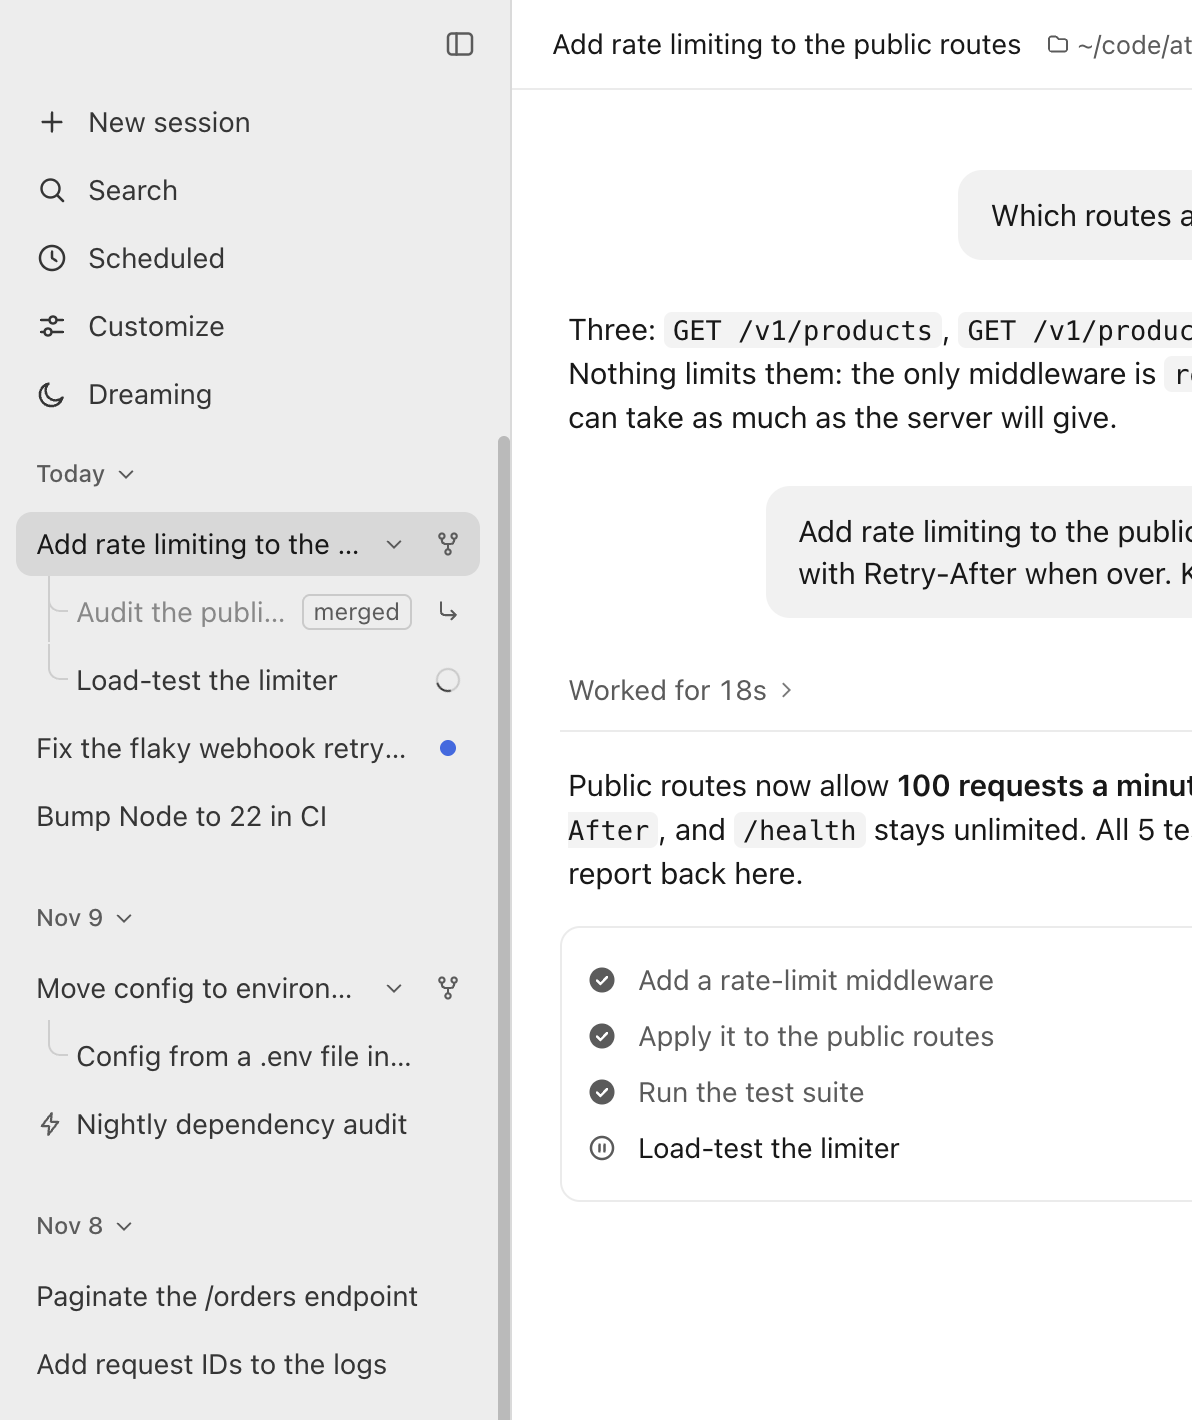
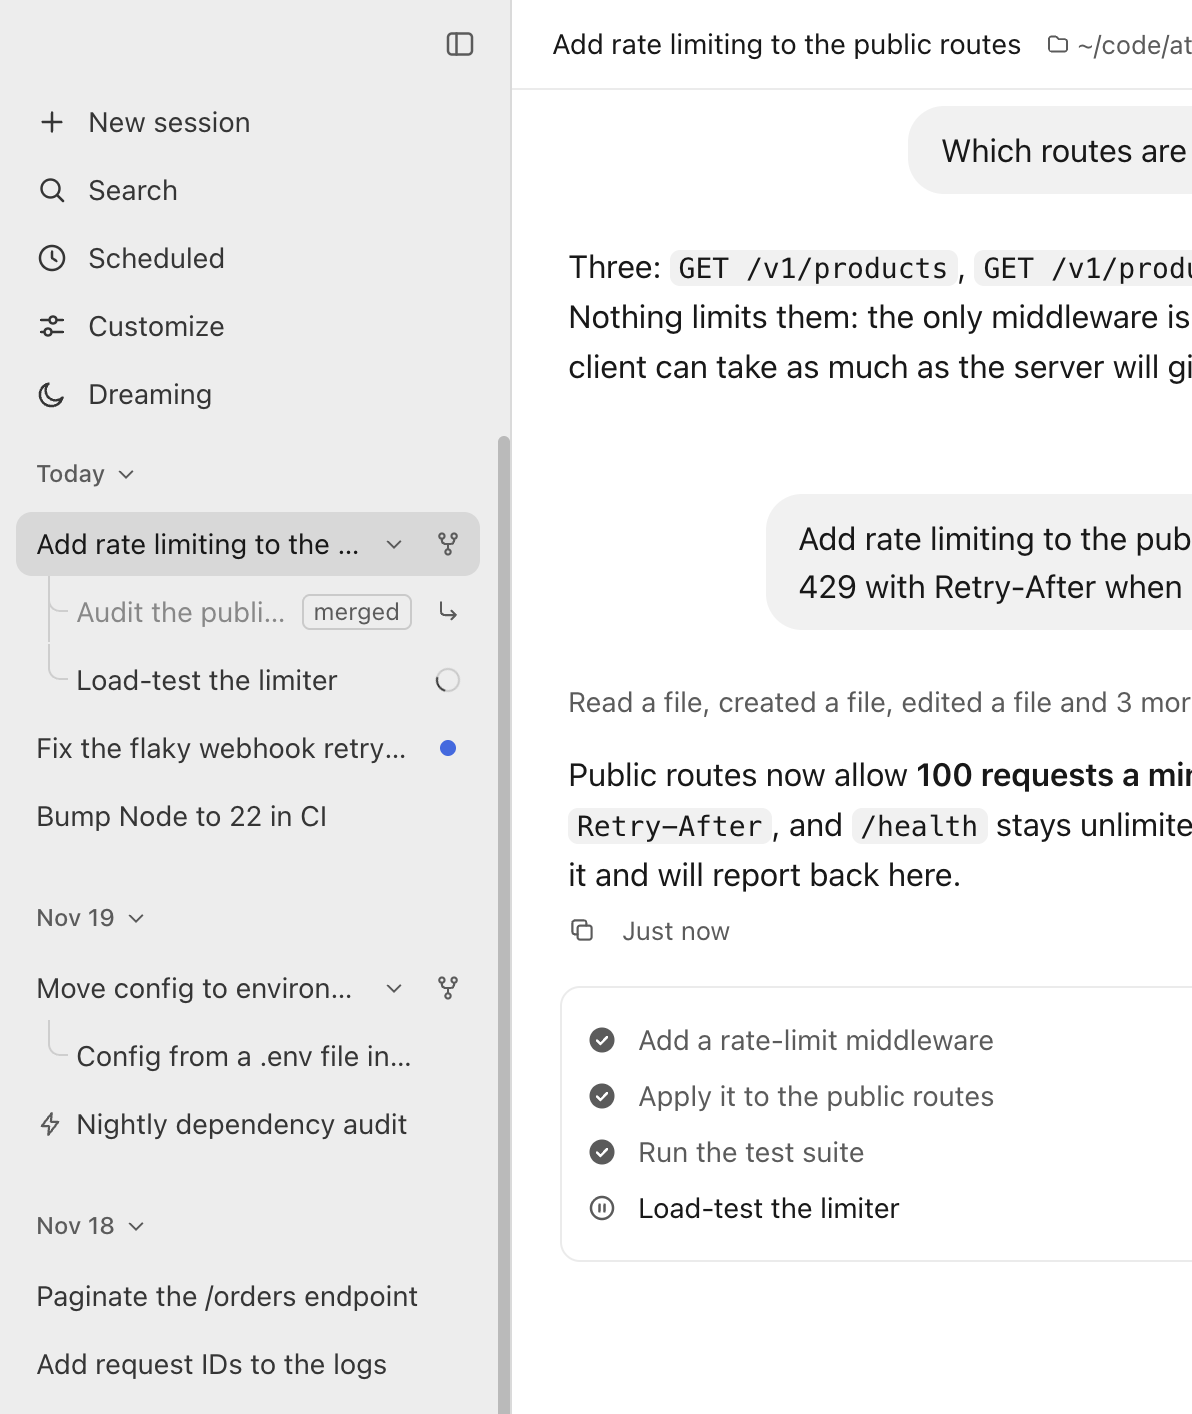
README and website screenshots redone in the 0.21.0 window; readme-shots.js no longer clicks the Mods tab that moved (the Mods page lists the mods) and takes the images turn in a taller window so its card of tool rows fits; docs/index.html picture sizes follow (test/site.js)

diff --git a/docs/index.html b/docs/index.html
@@ -111,10 +111,10 @@
           </ul>
         </div>
         <div class="card-pic"><div class="card-frame bleed" style="--w: 720px; --x: 0px; --y: 40px; --w-sm: 560px; --x-sm: 0px; --y-sm: 31px">
-          <img data-src="screenshots/mods.png" data-src-dark="screenshots/mods-dark.png" width="786" height="1048" decoding="async" loading="lazy" alt="The rail with the Environment, Context and Tasks mods, beside the Scheduled tab listing three scheduled tasks with their rhythm and a Run now button.">
+          <img data-src="screenshots/mods.png" data-src-dark="screenshots/mods-dark.png" width="786" height="1000" decoding="async" loading="lazy" alt="The rail with the Environment, Context and Tasks mods, beside the Scheduled tab listing three scheduled tasks with their rhythm and a Run now button.">
           <noscript><picture>
-            <source media="(prefers-color-scheme: dark)" srcset="screenshots/mods-dark.png" width="786" height="1048" data-dark>
-            <img src="screenshots/mods.png" width="786" height="1048" decoding="async" loading="lazy" alt="The rail with the Environment, Context and Tasks mods, beside the Scheduled tab listing three scheduled tasks with their rhythm and a Run now button.">
+            <source media="(prefers-color-scheme: dark)" srcset="screenshots/mods-dark.png" width="786" height="1000" data-dark>
+            <img src="screenshots/mods.png" width="786" height="1000" decoding="async" loading="lazy" alt="The rail with the Environment, Context and Tasks mods, beside the Scheduled tab listing three scheduled tasks with their rhythm and a Run now button.">
           </picture></noscript>
         </div></div>
       </article>
@@ -131,10 +131,10 @@
           <p>One calm column of text, and tool activity folded into a single quiet line that opens to every row.</p>
         </div>
         <div class="card-pic"><div class="card-frame bleed" style="--w: 640px; --x: 12px; --y: 74px">
-          <img data-src="screenshots/tool-activity.png" data-src-dark="screenshots/tool-activity-dark.png" width="796" height="663" decoding="async" loading="lazy" alt="A turn in the conversation: the line &quot;Read 3 files, edited 2 files, ran 2 commands, +4 −2, 1 failed&quot; opened to its rows, one edit showing its diff, and a second run folded to &quot;Ran a search, listed a directory&quot;.">
+          <img data-src="screenshots/tool-activity.png" data-src-dark="screenshots/tool-activity-dark.png" width="788" height="729" decoding="async" loading="lazy" alt="A turn in the conversation: the line &quot;Read 3 files, edited 2 files, ran 2 commands, +4 −2, 1 failed&quot; opened to its rows, one edit showing its diff, and a second run folded to &quot;Ran a search, listed a directory&quot;.">
           <noscript><picture>
-            <source media="(prefers-color-scheme: dark)" srcset="screenshots/tool-activity-dark.png" width="796" height="663" data-dark>
-            <img src="screenshots/tool-activity.png" width="796" height="663" decoding="async" loading="lazy" alt="A turn in the conversation: the line &quot;Read 3 files, edited 2 files, ran 2 commands, +4 −2, 1 failed&quot; opened to its rows, one edit showing its diff, and a second run folded to &quot;Ran a search, listed a directory&quot;.">
+            <source media="(prefers-color-scheme: dark)" srcset="screenshots/tool-activity-dark.png" width="788" height="729" data-dark>
+            <img src="screenshots/tool-activity.png" width="788" height="729" decoding="async" loading="lazy" alt="A turn in the conversation: the line &quot;Read 3 files, edited 2 files, ran 2 commands, +4 −2, 1 failed&quot; opened to its rows, one edit showing its diff, and a second run folded to &quot;Ran a search, listed a directory&quot;.">
           </picture></noscript>
         </div></div>
       </article>
@@ -145,10 +145,10 @@
           <p>Several sessions run at once, with sub-sessions and forks nested under the session they came from. Any session can find another by its name.</p>
         </div>
         <div class="card-pic"><div class="card-frame bleed" style="--w: 536px; --x: 0px; --y: 196px">
-          <img data-src="screenshots/sidebar.png" data-src-dark="screenshots/sidebar-dark.png" width="596" height="710" decoding="async" loading="lazy" alt="The sidebar: sessions grouped by day, a merged sub-session and a running one nested under the session that started them, a fork under its original, an unread session marked with a dot and a scheduled one with a clock.">
+          <img data-src="screenshots/sidebar.png" data-src-dark="screenshots/sidebar-dark.png" width="596" height="707" decoding="async" loading="lazy" alt="The sidebar: sessions grouped by day, a merged sub-session and a running one nested under the session that started them, a fork under its original, an unread session marked with a dot and a scheduled one with a clock.">
           <noscript><picture>
-            <source media="(prefers-color-scheme: dark)" srcset="screenshots/sidebar-dark.png" width="596" height="710" data-dark>
-            <img src="screenshots/sidebar.png" width="596" height="710" decoding="async" loading="lazy" alt="The sidebar: sessions grouped by day, a merged sub-session and a running one nested under the session that started them, a fork under its original, an unread session marked with a dot and a scheduled one with a clock.">
+            <source media="(prefers-color-scheme: dark)" srcset="screenshots/sidebar-dark.png" width="596" height="707" data-dark>
+            <img src="screenshots/sidebar.png" width="596" height="707" decoding="async" loading="lazy" alt="The sidebar: sessions grouped by day, a merged sub-session and a running one nested under the session that started them, a fork under its original, an unread session marked with a dot and a scheduled one with a clock.">
           </picture></noscript>
         </div></div>
       </article>
@@ -159,10 +159,10 @@
           <p>Permission modes, approval cards, plan mode and rewind, as in Claude Code. Auto mode blocks only risky actions, with a reason.</p>
         </div>
         <div class="card-pic"><div class="card-frame bleed" style="--w: 503px; --x: 16px; --y: 6px; --y-sm: 100px">
-          <img data-src="screenshots/approval.png" data-src-dark="screenshots/approval-dark.png" width="614" height="428" decoding="async" loading="lazy" alt="An approval card asking to run git push -u origin feat/rate-limit, with Deny and Allow once.">
+          <img data-src="screenshots/approval.png" data-src-dark="screenshots/approval-dark.png" width="614" height="424" decoding="async" loading="lazy" alt="An approval card asking to run git push -u origin feat/rate-limit, with Deny and Allow once.">
           <noscript><picture>
-            <source media="(prefers-color-scheme: dark)" srcset="screenshots/approval-dark.png" width="614" height="428" data-dark>
-            <img src="screenshots/approval.png" width="614" height="428" decoding="async" loading="lazy" alt="An approval card asking to run git push -u origin feat/rate-limit, with Deny and Allow once.">
+            <source media="(prefers-color-scheme: dark)" srcset="screenshots/approval-dark.png" width="614" height="424" data-dark>
+            <img src="screenshots/approval.png" width="614" height="424" decoding="async" loading="lazy" alt="An approval card asking to run git push -u origin feat/rate-limit, with Deny and Allow once.">
           </picture></noscript>
         </div></div>
       </article>

diff --git a/scripts/readme-shots.js b/scripts/readme-shots.js
@@ -919,7 +919,8 @@ async function main() {
     await ev(`document.querySelector('.rail-section[data-view="plan/main"] .rail-head-btn').click()`);
 
     // ---------------- images ----------------
-    await viewport(1180, 1000);
+    // Tall enough for the whole turn: its tool rows now sit in a card under the line that says what happened
+    await viewport(1180, 1200);
     scriptImages(mock);
     await app.send("Pull yesterday's traffic panel from Grafana, then replay that hour through the limiter and chart requests per minute, before and after.");
     await mainIdle();
@@ -983,9 +984,8 @@ async function main() {
     await sleep(300);
     await ev(`(() => { if (!document.querySelector('#settings').open) document.querySelector('#settings-btn').click(); })()`);
     await app.waitFor(`document.querySelector('#settings').open && Boolean(document.querySelector('#sp-nav-mods'))`, 10_000, 'Settings');
+    // The Mods page lists the mods, where a rail panel of yours is
     await app.click('#sp-nav-mods');
-    // The Mods tab (the general mods), where a rail panel of yours is listed
-    await app.click('#sp-modtab-mods');
     await app.waitFor(`Boolean(document.querySelector('#sp-row-mod-word-count .sp-mod-expand'))`, 10_000, 'the Word count row');
     await app.click('#sp-row-mod-word-count .sp-mod-expand');
     await sleep(500);
